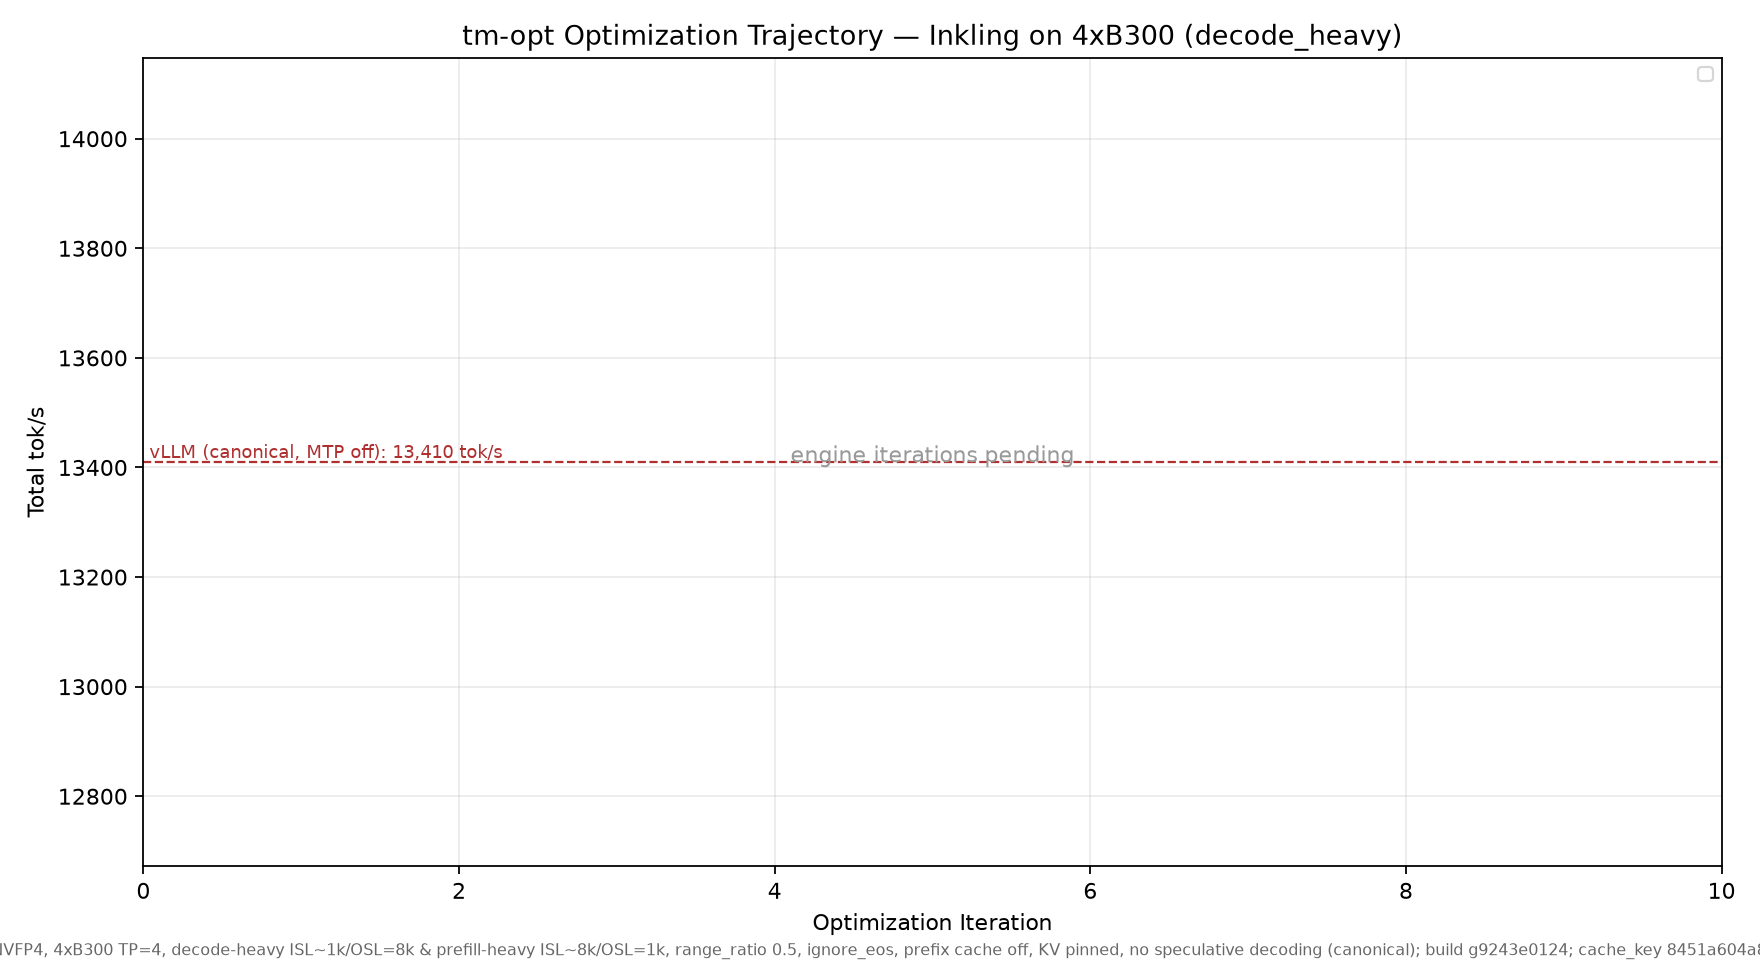
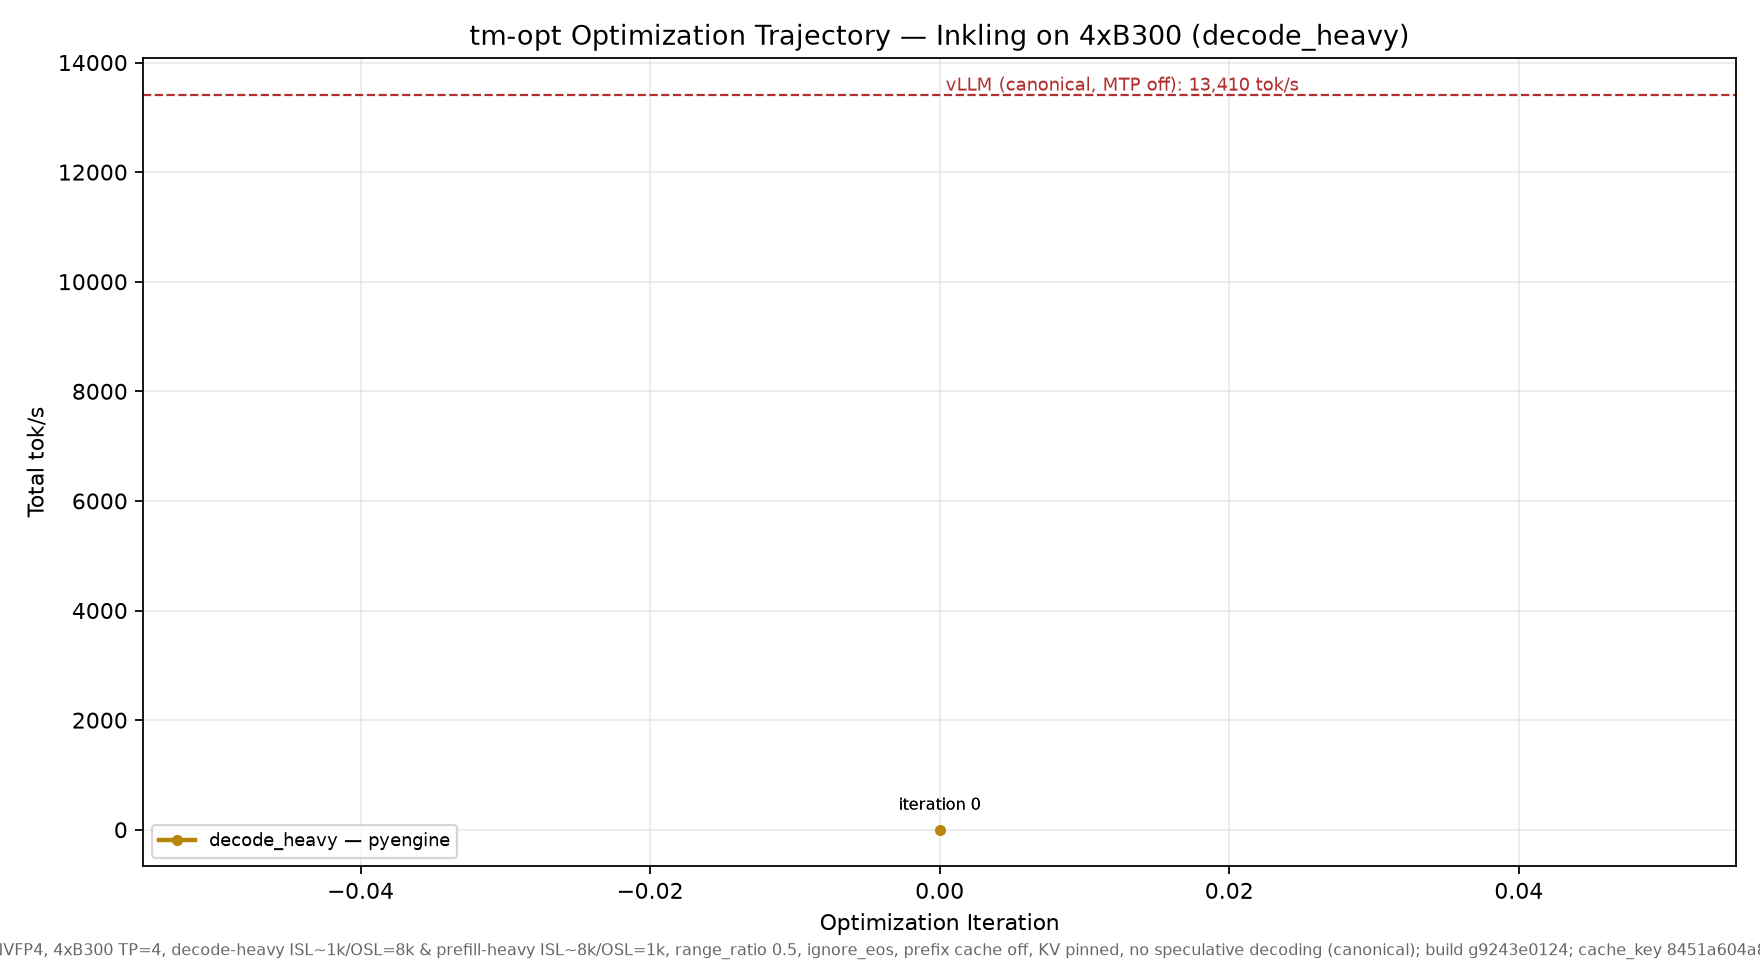
plot trajectory update

diff --git a/ITERATION_LOG.md b/ITERATION_LOG.md
@@ -11,3 +11,5 @@
 
 | iter | workload | label | mechanism | tok/s | vs vLLM | commit | log |
 |---|---|---|---|---|---|---|---|
+| 0 | decode_heavy | iteration 0 | per-sequence eager engine, Triton pending | 2 | 0.0% | 8c29167 |  |
+| 0 | prefill_heavy | iteration 0 | per-sequence eager engine, Triton pending | 2 | 0.0% | 759c5ac |  |
